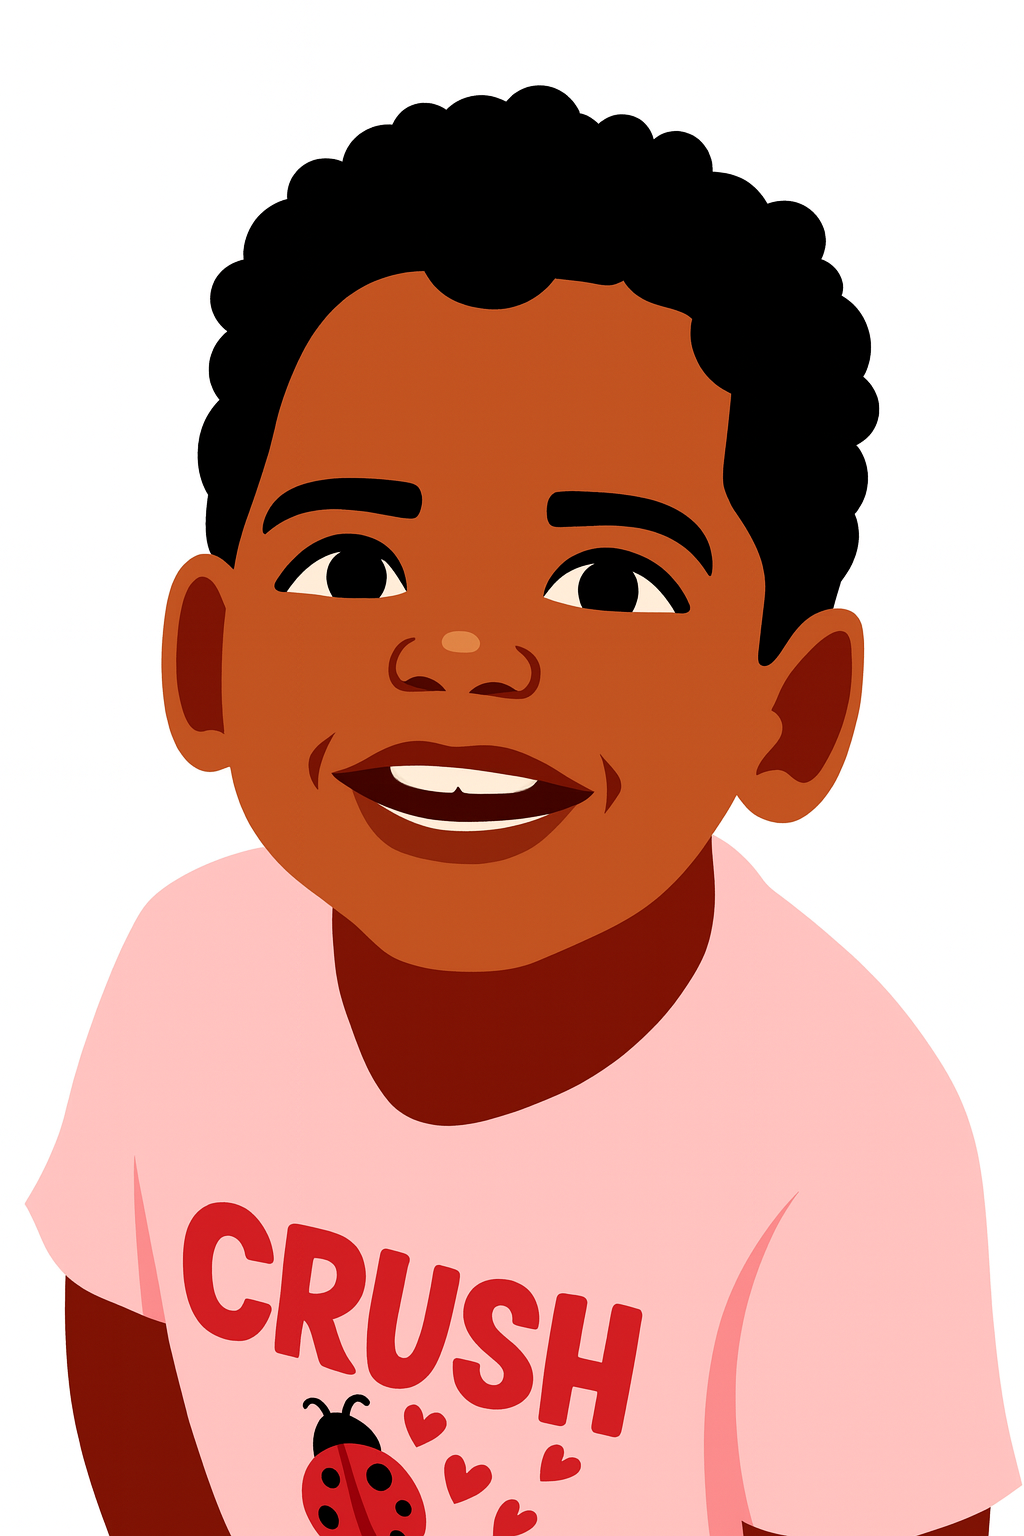
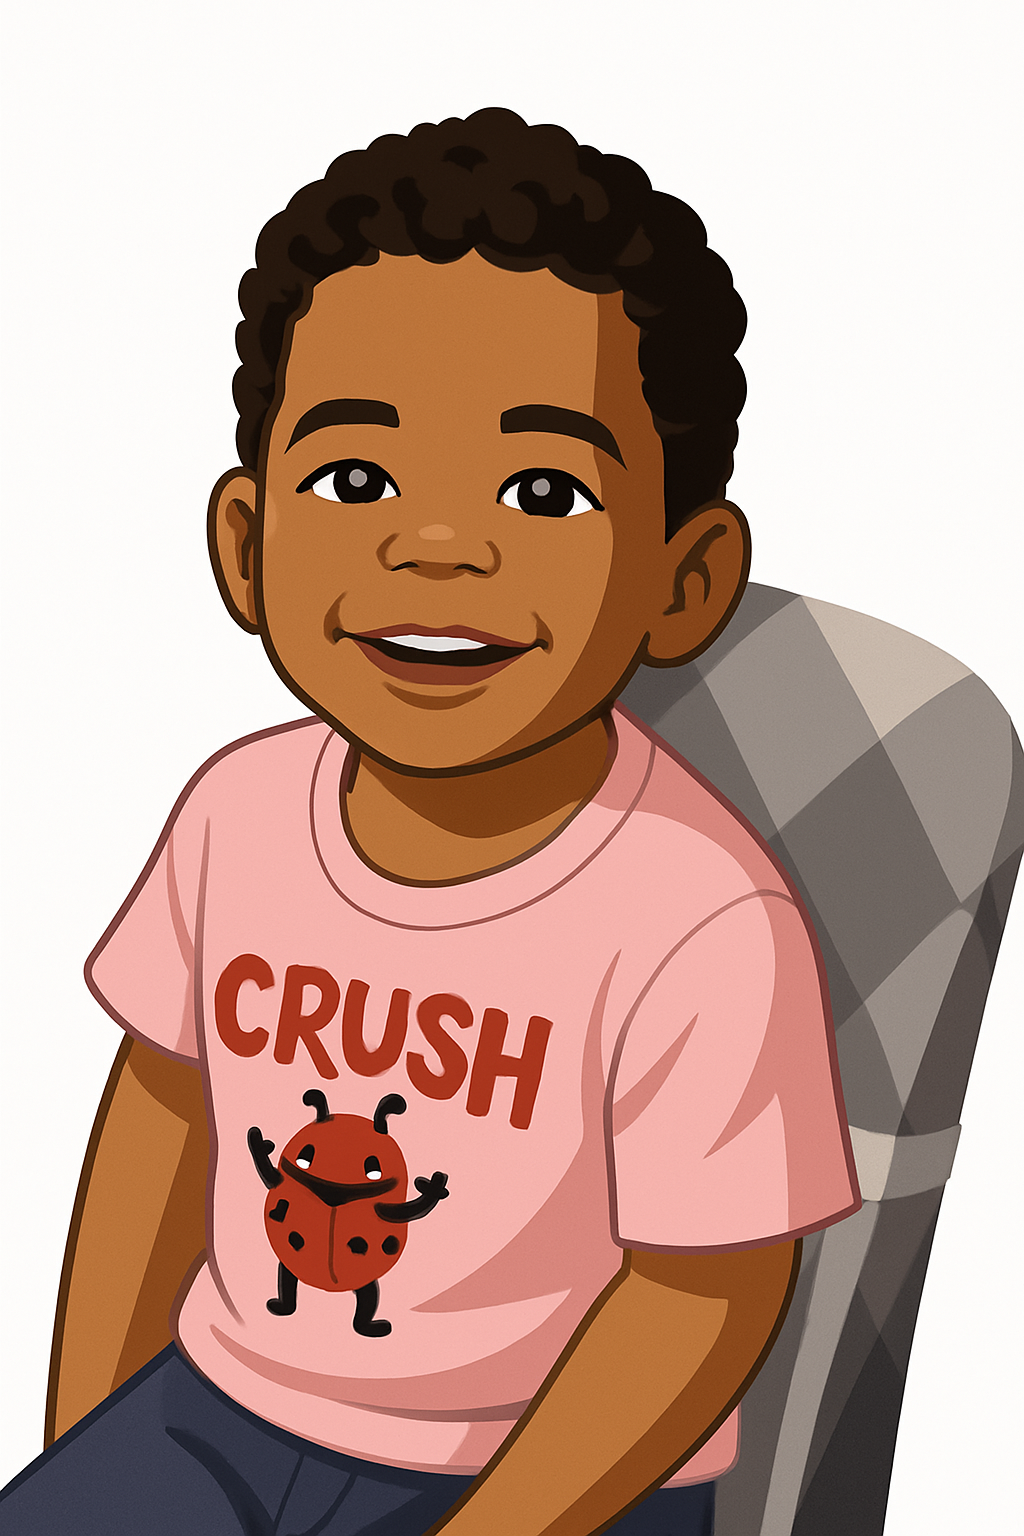
1. added more family members 2. fixed css to handle family member card turn overs

diff --git a/src/Card/CardTypes/Family.tsx b/src/Card/CardTypes/Family.tsx
@@ -1,23 +1,7 @@
-import React, { useState } from 'react';
-import adrianaVector from '../../assets/vector/adriana-vector.png';
-import antoineVector from '../../assets/vector/antoine-vector.png';
-import daddyVector from '../../assets/vector/daddy-vector.png';
-import isaacVector from '../../assets/vector/isaac-vector.png';
-import mommyVector from '../../assets/vector/mommy-vector.png';
 import styles from './Family.module.css';
 
-const vectorMap: Record<string, string> = {
-  adriana: adrianaVector,
-  antoine: antoineVector,
-  daddy: daddyVector,
-  isaac: isaacVector,
-  mommy: mommyVector,
-};
-
 const Family = ({ familyMemberName }: { familyMemberName: string }) => {
-  const [src, setSrc] = useState(vectorMap[familyMemberName] || '');
-
-  return <img className={styles.image} src={src} alt={familyMemberName} onError={() => setSrc('')} />;
+  return <img className={styles.image} src={`/src/assets/vector/${familyMemberName}-vector.png`} alt={familyMemberName} />;
 };
 
 export default Family;

diff --git a/src/App.tsx b/src/App.tsx
@@ -100,14 +100,14 @@ function App() {
 
     while (pickedCards.length < 3) {
       const rIndex = Math.floor(Math.random() * 10) % cardNames.length;
-      if (!pickedCards.find(card => card == pickedCards[rIndex])) pickedCards.push(cardNames[rIndex]);
+      if (!pickedCards.find(card => card == cardNames[rIndex])) pickedCards.push(cardNames[rIndex]);
     }
 
     return pickedCards;
   }
 
   useEffect(() => {
-    const cardsToUse = (Math.floor((Math.random() * 100) % 2) == 0 ? family : shapes) as string[];
+    const cardsToUse = family as string[]; //(Math.floor((Math.random() * 100) % 2) == 0 ? family : shapes) as string[];
     // Create pairs of shapes to ensure matching is possible
     const pickedCards = pickCards(cardsToUse);
     const cardPairs = [...pickedCards, ...pickedCards];

diff --git a/src/App.css b/src/App.css
@@ -39,7 +39,8 @@
   height: 100%;
   background: inherit;
 
-  svg {
+  svg,
+  img {
     visibility: hidden;
   }
 }
@@ -47,7 +48,8 @@
 .grid-item-turnover {
   background: #fcfcfc;
   color: #646cff;
-  svg {
+  svg,
+  img {
     visibility: visible;
   }
 }
